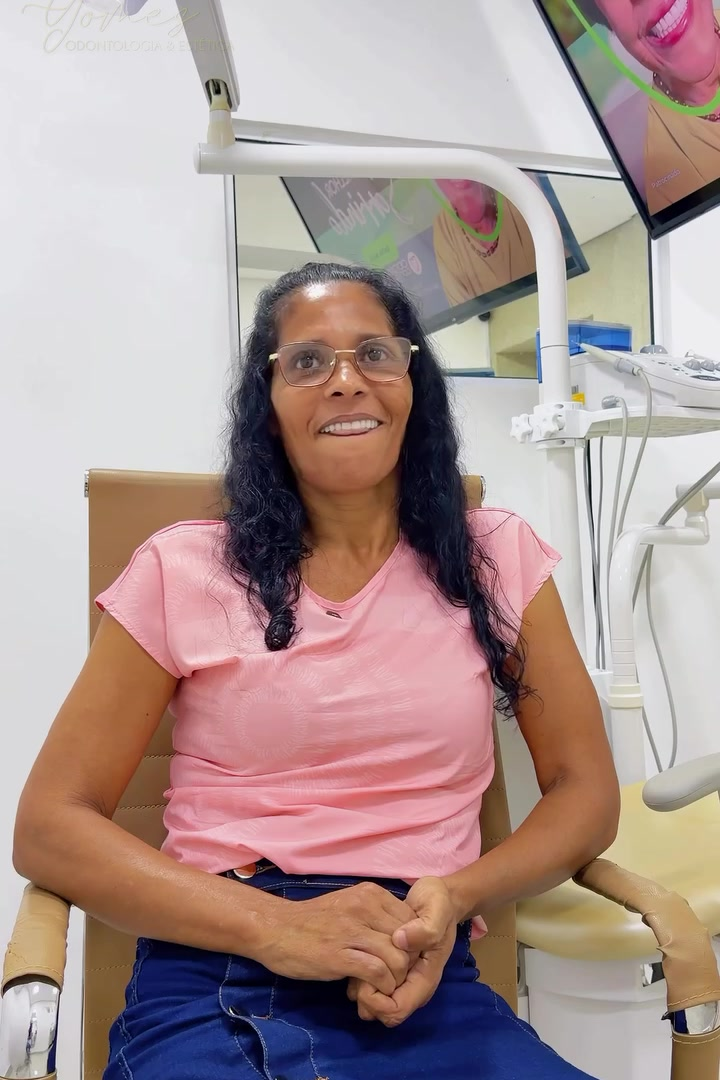
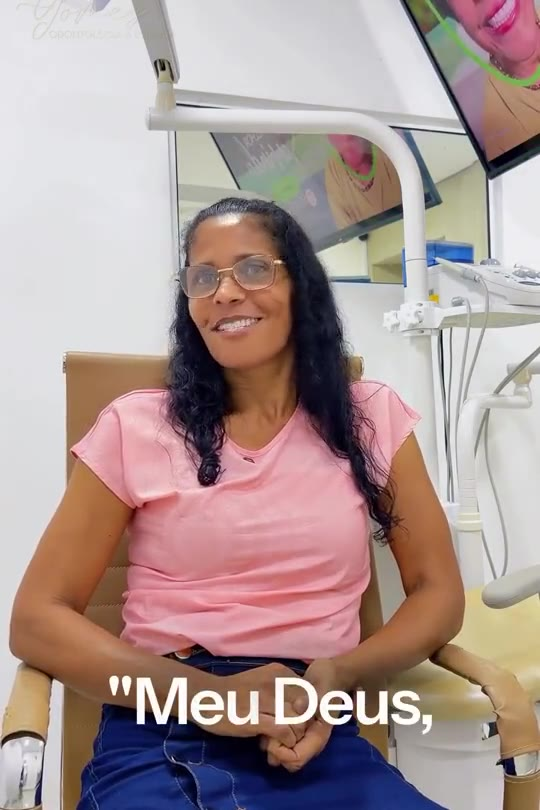
Reorganiza fotos da "Conheça nossa clínica" e arruma o grid quebrado
- Grid agora uniforme (todo item mesma proporção quadrada) em vez dos
  spans largos/altos que quebravam o layout no desktop
- Mobile: grid fixo de 2 colunas (2 fotos lado a lado por linha),
  vídeo sempre como último item
- Adiciona card "Ambiente Refrigerado" antes do vídeo
- Adiciona nova foto real da recepção (ângulo mais amplo)
- Remove fachada-real.jpg (removida pela cliente) e atualiza
  og:image/dados estruturados para a nova foto de recepção
- Regenera os posters dos vídeos que tinham sido apagados

diff --git a/index.html b/index.html
@@ -14,7 +14,7 @@
 <meta property="og:type" content="business.business">
 <meta property="og:title" content="Gomes Odontologia & Estética | Dentista em Boiçucanga">
 <meta property="og:description" content="Odontologia moderna e personalizada, com resultados que surpreendem. Clínica no Beira Praia Shopping, Boiçucanga - São Sebastião.">
-<meta property="og:image" content="assets/images/clinic/fachada-real.jpg">
+<meta property="og:image" content="assets/images/clinic/recepcao-ambiente-real.jpg">
 <meta property="og:url" content="https://www.gomesodontoestetica.com.br/">
 <meta property="og:locale" content="pt_BR">
 <meta property="og:site_name" content="Gomes Odontologia & Estética">
@@ -42,7 +42,7 @@
   "@type": "Dentist",
   "name": "Gomes Odontologia & Estética",
   "alternateName": "Dentista Boiçucanga",
-  "image": "https://www.gomesodontoestetica.com.br/assets/images/clinic/fachada-real.jpg",
+  "image": "https://www.gomesodontoestetica.com.br/assets/images/clinic/recepcao-ambiente-real.jpg",
   "address": {
     "@type": "PostalAddress",
     "streetAddress": "Av. Walkir Vergani, 614 - Sala 34 A, Beira Praia Shopping",
@@ -419,16 +419,12 @@
       </p>
     </div>
 
+    <!--
+      Grid uniforme (mesma proporção em todo item, sem "spans" largos) — fácil
+      de adicionar/remover fotos sem quebrar o layout. Ordem: fotos da clínica,
+      depois o card de "Ambiente Refrigerado", e o vídeo sempre por último.
+    -->
     <div class="clinic-tour__grid">
-      <div class="clinic-tour__item clinic-tour__item--wide reveal-up" data-reveal>
-        <div class="photo photo--fill">
-          <img src="assets/images/clinic/fachada-real.jpg" alt="Fachada da Gomes Odontologia & Estética, no Beira Praia Shopping" loading="lazy">
-        </div>
-      </div>
-      <div class="clinic-tour__item clinic-tour__item--video reveal-up" data-reveal>
-        <!-- Vídeo real da clínica (tour pela fachada/recepção), em loop mudo. -->
-        <video src="assets/images/clinic/clinica-video-galeria.mp4" poster="assets/images/clinic/clinica-video-poster.jpg" autoplay muted loop playsinline aria-label="Vídeo real da Gomes Odontologia & Estética"></video>
-      </div>
       <div class="clinic-tour__item reveal-up" data-reveal>
         <div class="photo photo--fill">
           <img src="assets/images/clinic/recepcao-logo-real.jpg" alt="Recepção com a logo oficial da clínica" loading="lazy">
@@ -436,13 +432,26 @@
       </div>
       <div class="clinic-tour__item reveal-up" data-reveal>
         <div class="photo photo--fill">
+          <img src="assets/images/clinic/recepcao-ambiente-real.jpg" alt="Ambiente de recepção da Gomes Odontologia & Estética" loading="lazy">
+        </div>
+      </div>
+      <div class="clinic-tour__item reveal-up" data-reveal>
+        <div class="photo photo--fill">
           <img src="assets/images/clinic/recepcao-espera-real.jpg" alt="Sala de espera da clínica" loading="lazy">
         </div>
       </div>
-      <div class="clinic-tour__item clinic-tour__item--wide reveal-up" data-reveal>
+      <div class="clinic-tour__item reveal-up" data-reveal>
         <div class="photo photo--fill">
           <img src="assets/images/clinic/sala-atendimento-real.jpg" alt="Sala de atendimento da clínica" loading="lazy">
         </div>
+      </div>
+      <div class="clinic-tour__item clinic-tour__item--amenity reveal-up" data-reveal>
+        <svg viewBox="0 0 24 24" fill="none" stroke="currentColor" stroke-width="1.4" aria-hidden="true"><path d="M12 2v20M4.5 6l15 12M19.5 6l-15 12M2 12h20"/></svg>
+        <span>Ambiente Refrigerado</span>
+      </div>
+      <div class="clinic-tour__item reveal-up" data-reveal>
+        <!-- Vídeo real da clínica (tour pela fachada/recepção), em loop mudo. -->
+        <video src="assets/images/clinic/clinica-video-galeria.mp4" poster="assets/images/clinic/clinica-video-poster.jpg" autoplay muted loop playsinline aria-label="Vídeo real da Gomes Odontologia & Estética"></video>
       </div>
     </div>
   </section>

diff --git a/css/style.css b/css/style.css
@@ -476,14 +476,26 @@ address { font-style: normal; }
 .clinic-tour__intro { text-align: center; max-width: 640px; margin: 0 auto 60px; }
 .clinic-tour__intro h2 { font-size: clamp(30px, 3.4vw, 46px); margin-bottom: 20px; }
 .clinic-tour__lead { color: var(--ink-soft); font-size: 16px; }
+/* Grid uniforme — todo item (foto, vídeo ou o card de amenidade) tem a
+   mesma proporção quadrada, então dá pra adicionar/remover itens livremente
+   sem quebrar o layout, tanto no desktop quanto no mobile. */
 .clinic-tour__grid {
   max-width: var(--container); margin: 0 auto;
-  display: grid; grid-template-columns: repeat(4, 1fr); grid-auto-rows: 220px; gap: 18px;
+  display: grid; grid-template-columns: repeat(4, 1fr); gap: 18px;
 }
-.clinic-tour__item { border-radius: 12px; overflow: hidden; grid-column: span 1; }
-.clinic-tour__item--wide { grid-column: span 2; }
-.clinic-tour__item--video { grid-row: span 2; }
-.clinic-tour__item--video video { width: 100%; height: 100%; object-fit: cover; display: block; background: var(--cream-deep); }
+.clinic-tour__item { border-radius: 12px; overflow: hidden; aspect-ratio: 1 / 1; }
+.clinic-tour__item video { width: 100%; height: 100%; object-fit: cover; display: block; background: var(--cream-deep); }
+.clinic-tour__item--amenity {
+  display: flex; flex-direction: column; align-items: center; justify-content: center; gap: 14px;
+  background: var(--chumbo);
+  color: var(--gold-light);
+  text-align: center;
+  padding: 20px;
+}
+.clinic-tour__item--amenity svg { width: 30%; height: 30%; }
+.clinic-tour__item--amenity span {
+  font-family: var(--font-display); font-style: italic; font-size: clamp(15px, 1.6vw, 19px); color: var(--cream);
+}
 
 /* ============================================================
    09 · LOCATION / COMO CHEGAR

diff --git a/css/responsive.css b/css/responsive.css
@@ -8,8 +8,7 @@
 @media (max-width: 1180px) {
   .treatments-highlight__grid { grid-template-columns: repeat(2, 1fr); }
   .team__grid { grid-template-columns: repeat(2, 1fr); }
-  .clinic-tour__grid { grid-template-columns: repeat(2, 1fr); }
-  .clinic-tour__item--video { grid-row: span 1; aspect-ratio: 9/16; }
+  .clinic-tour__grid { grid-template-columns: repeat(3, 1fr); }
   .main-nav ul { gap: 22px; }
 
   .hero__inner { gap: 32px; }
@@ -82,9 +81,7 @@
 
   .team__grid { grid-template-columns: 1fr; }
 
-  .clinic-tour__grid { grid-template-columns: 1fr; grid-auto-rows: auto; }
-  .clinic-tour__item, .clinic-tour__item--wide { aspect-ratio: 16/10; }
-  .clinic-tour__item--video { aspect-ratio: 9/16; }
+  .clinic-tour__grid { grid-template-columns: repeat(2, 1fr); gap: 12px; }
 
   /* Setas menores e dentro da área visível — sinalizam que dá pra arrastar
      pra ver mais itens, mesmo em quem não tenta o gesto de swipe. */
